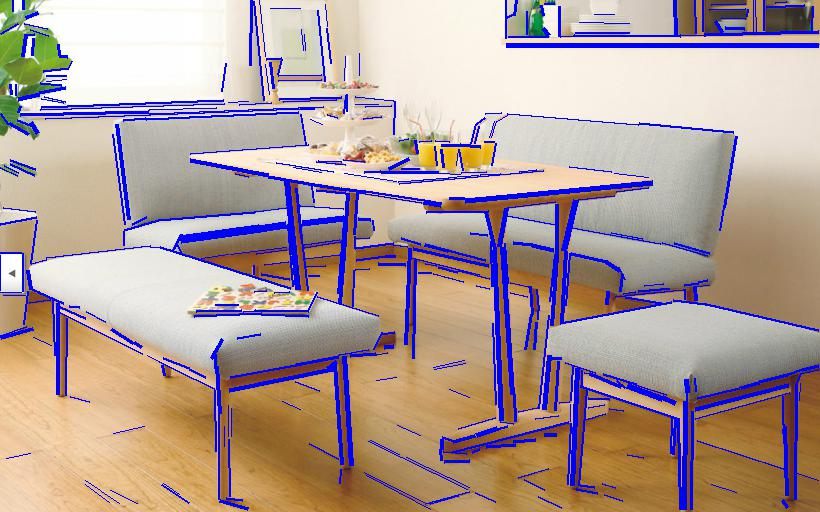
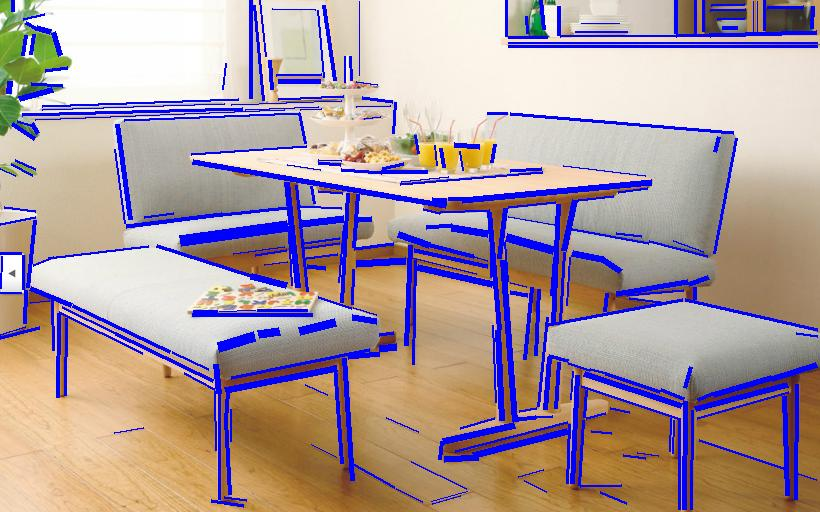
Fix issue with Windows dll loading

diff --git a/example/example_cv2.py b/example/example_cv2.py
@@ -11,7 +11,7 @@ folder, img_name = os.path.split(full_name)
 img = cv2.imread(full_name, cv2.IMREAD_COLOR)
 img_gray = cv2.cvtColor(img, cv2.COLOR_BGR2GRAY)
 
-segments = lsd(img_gray)
+segments = lsd(img_gray, scale=0.5)
 
 for i in range(segments.shape[0]):
     pt1 = (int(segments[i, 0]), int(segments[i, 1]))

diff --git a/setup.py b/setup.py
@@ -12,7 +12,7 @@ with open('README.md', 'r') as fh:
 
 setup(
     name='pylsd-nova',
-    version='1.0.0',
+    version='1.2.0',
     author='Andranik Sargsyan',
     author_email='and.sargsyan@yahoo.com',
     description='pylsd-nova is a python binding for LSD - Line Segment Detector',

diff --git a/example/example_PIL.py b/example/example_PIL.py
@@ -11,7 +11,7 @@ folder, img_name = os.path.split(full_name)
 img = Image.open(full_name)
 img_gray = np.asarray(img.convert('L'))
 
-segments = lsd(img_gray)
+segments = lsd(img_gray, scale=0.5)
 
 draw = ImageDraw.Draw(img)
 for i in range(segments.shape[0]):

diff --git a/README.md b/README.md
@@ -66,7 +66,7 @@ folder, img_name = os.path.split(full_name)
 img = cv2.imread(full_name, cv2.IMREAD_COLOR)
 img_gray = cv2.cvtColor(img, cv2.COLOR_BGR2GRAY)
 
-segments = lsd(img_gray)
+segments = lsd(img_gray, scale=0.5)
 
 for i in range(segments.shape[0]):
     pt1 = (int(segments[i, 0]), int(segments[i, 1]))
@@ -90,7 +90,7 @@ folder, img_name = os.path.split(full_name)
 img = Image.open(full_name)
 img_gray = np.asarray(img.convert('L'))
 
-segments = lsd(img_gray)
+segments = lsd(img_gray, scale=0.5)
 
 draw = ImageDraw.Draw(img)
 for i in range(segments.shape[0]):
